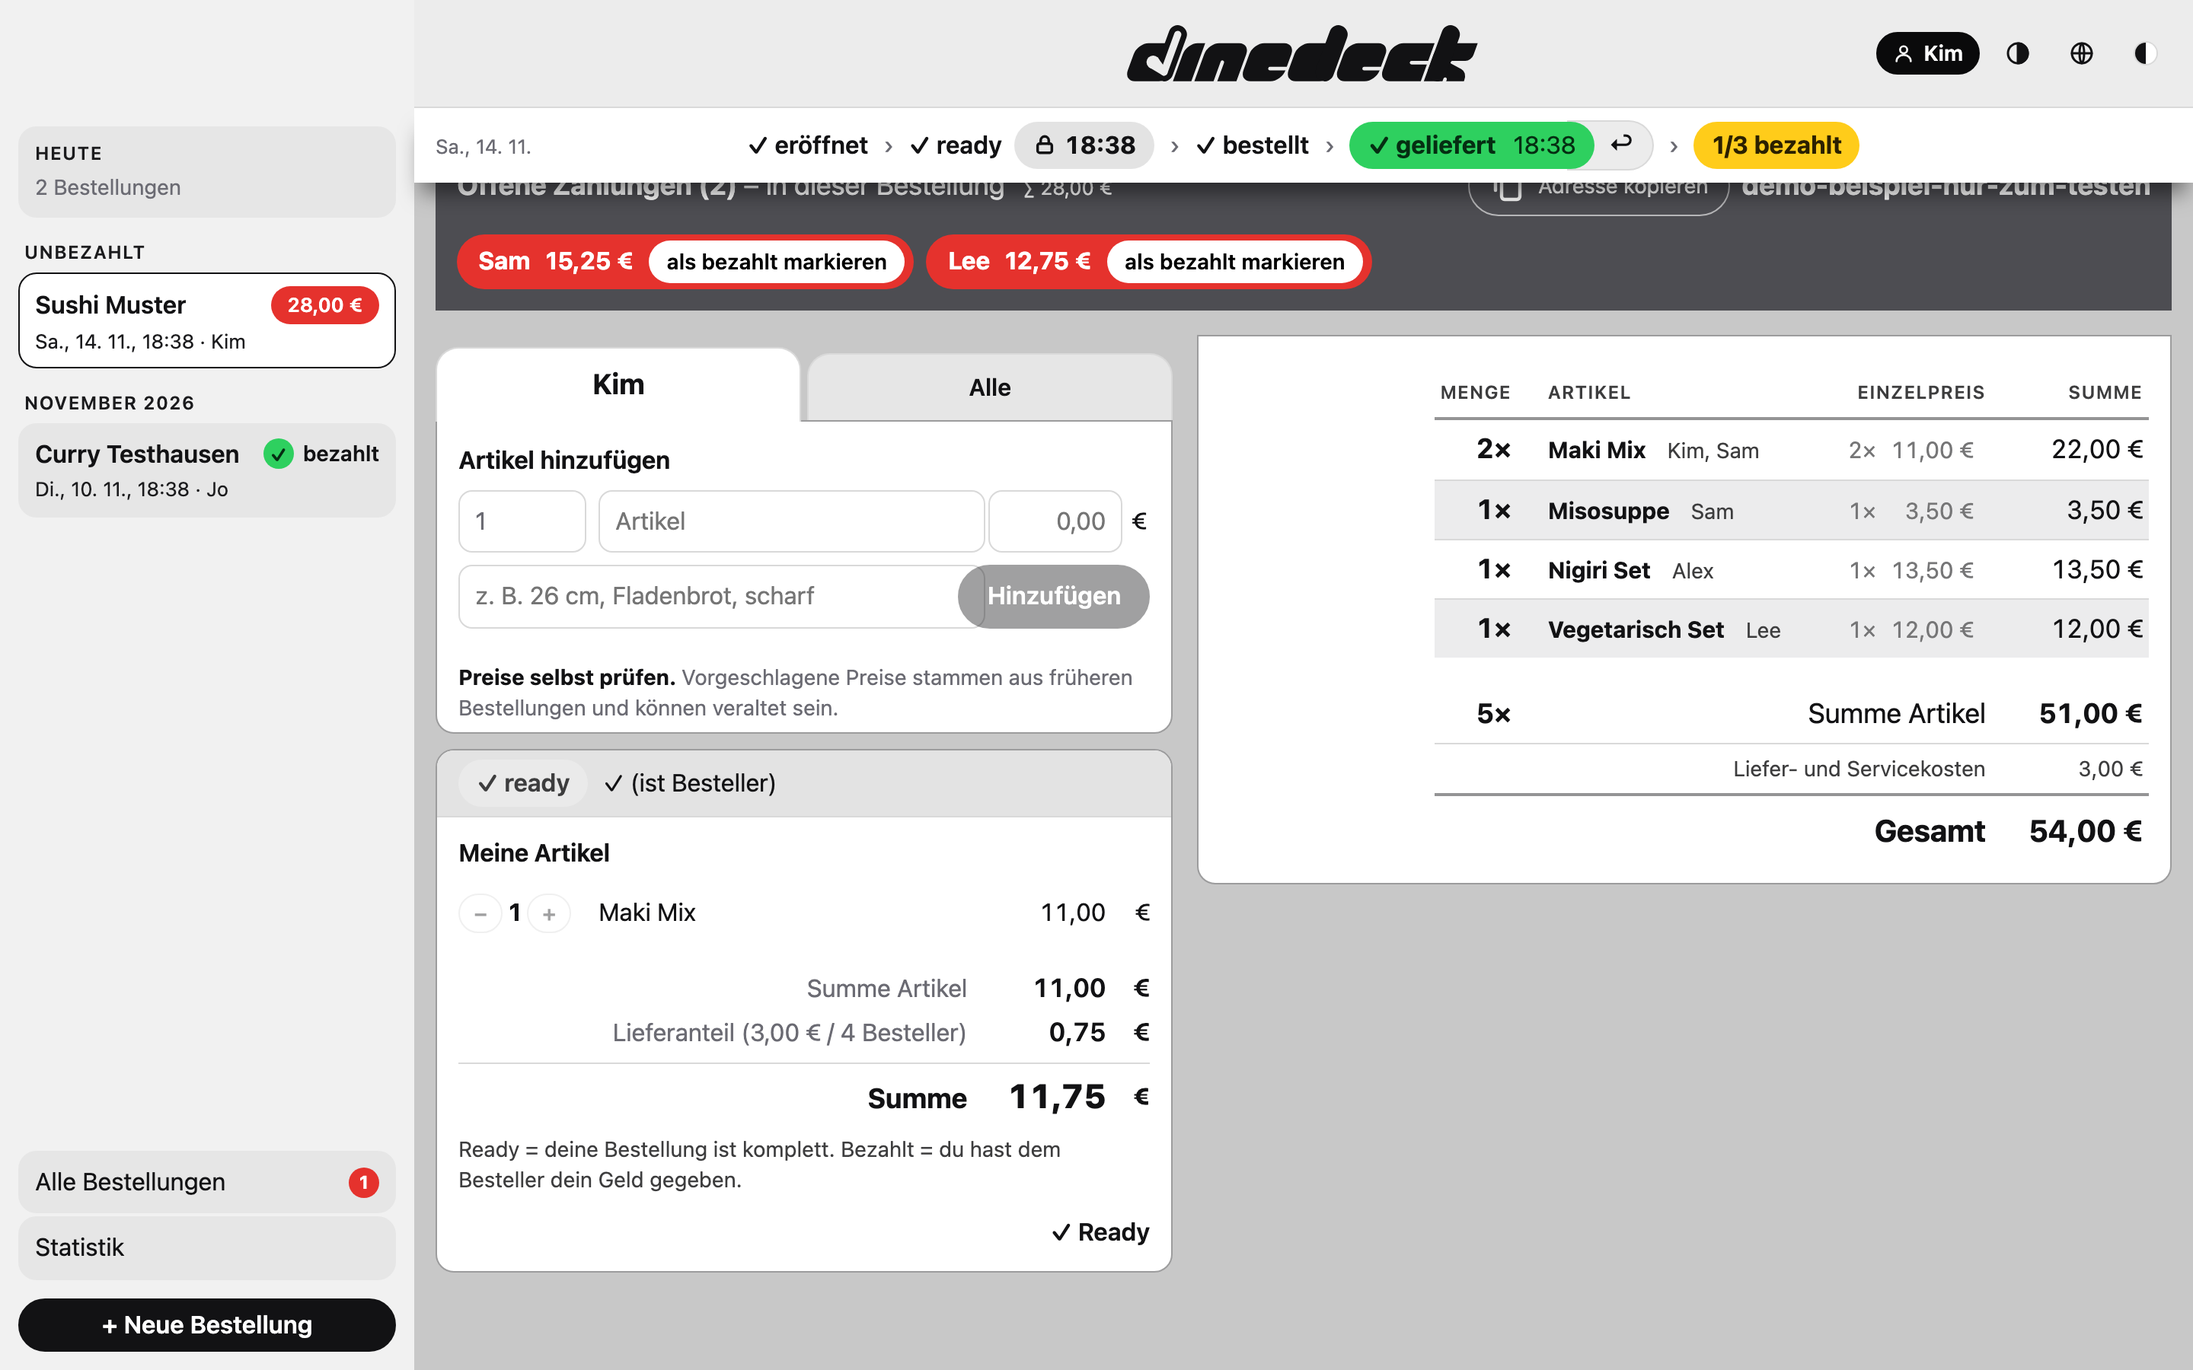
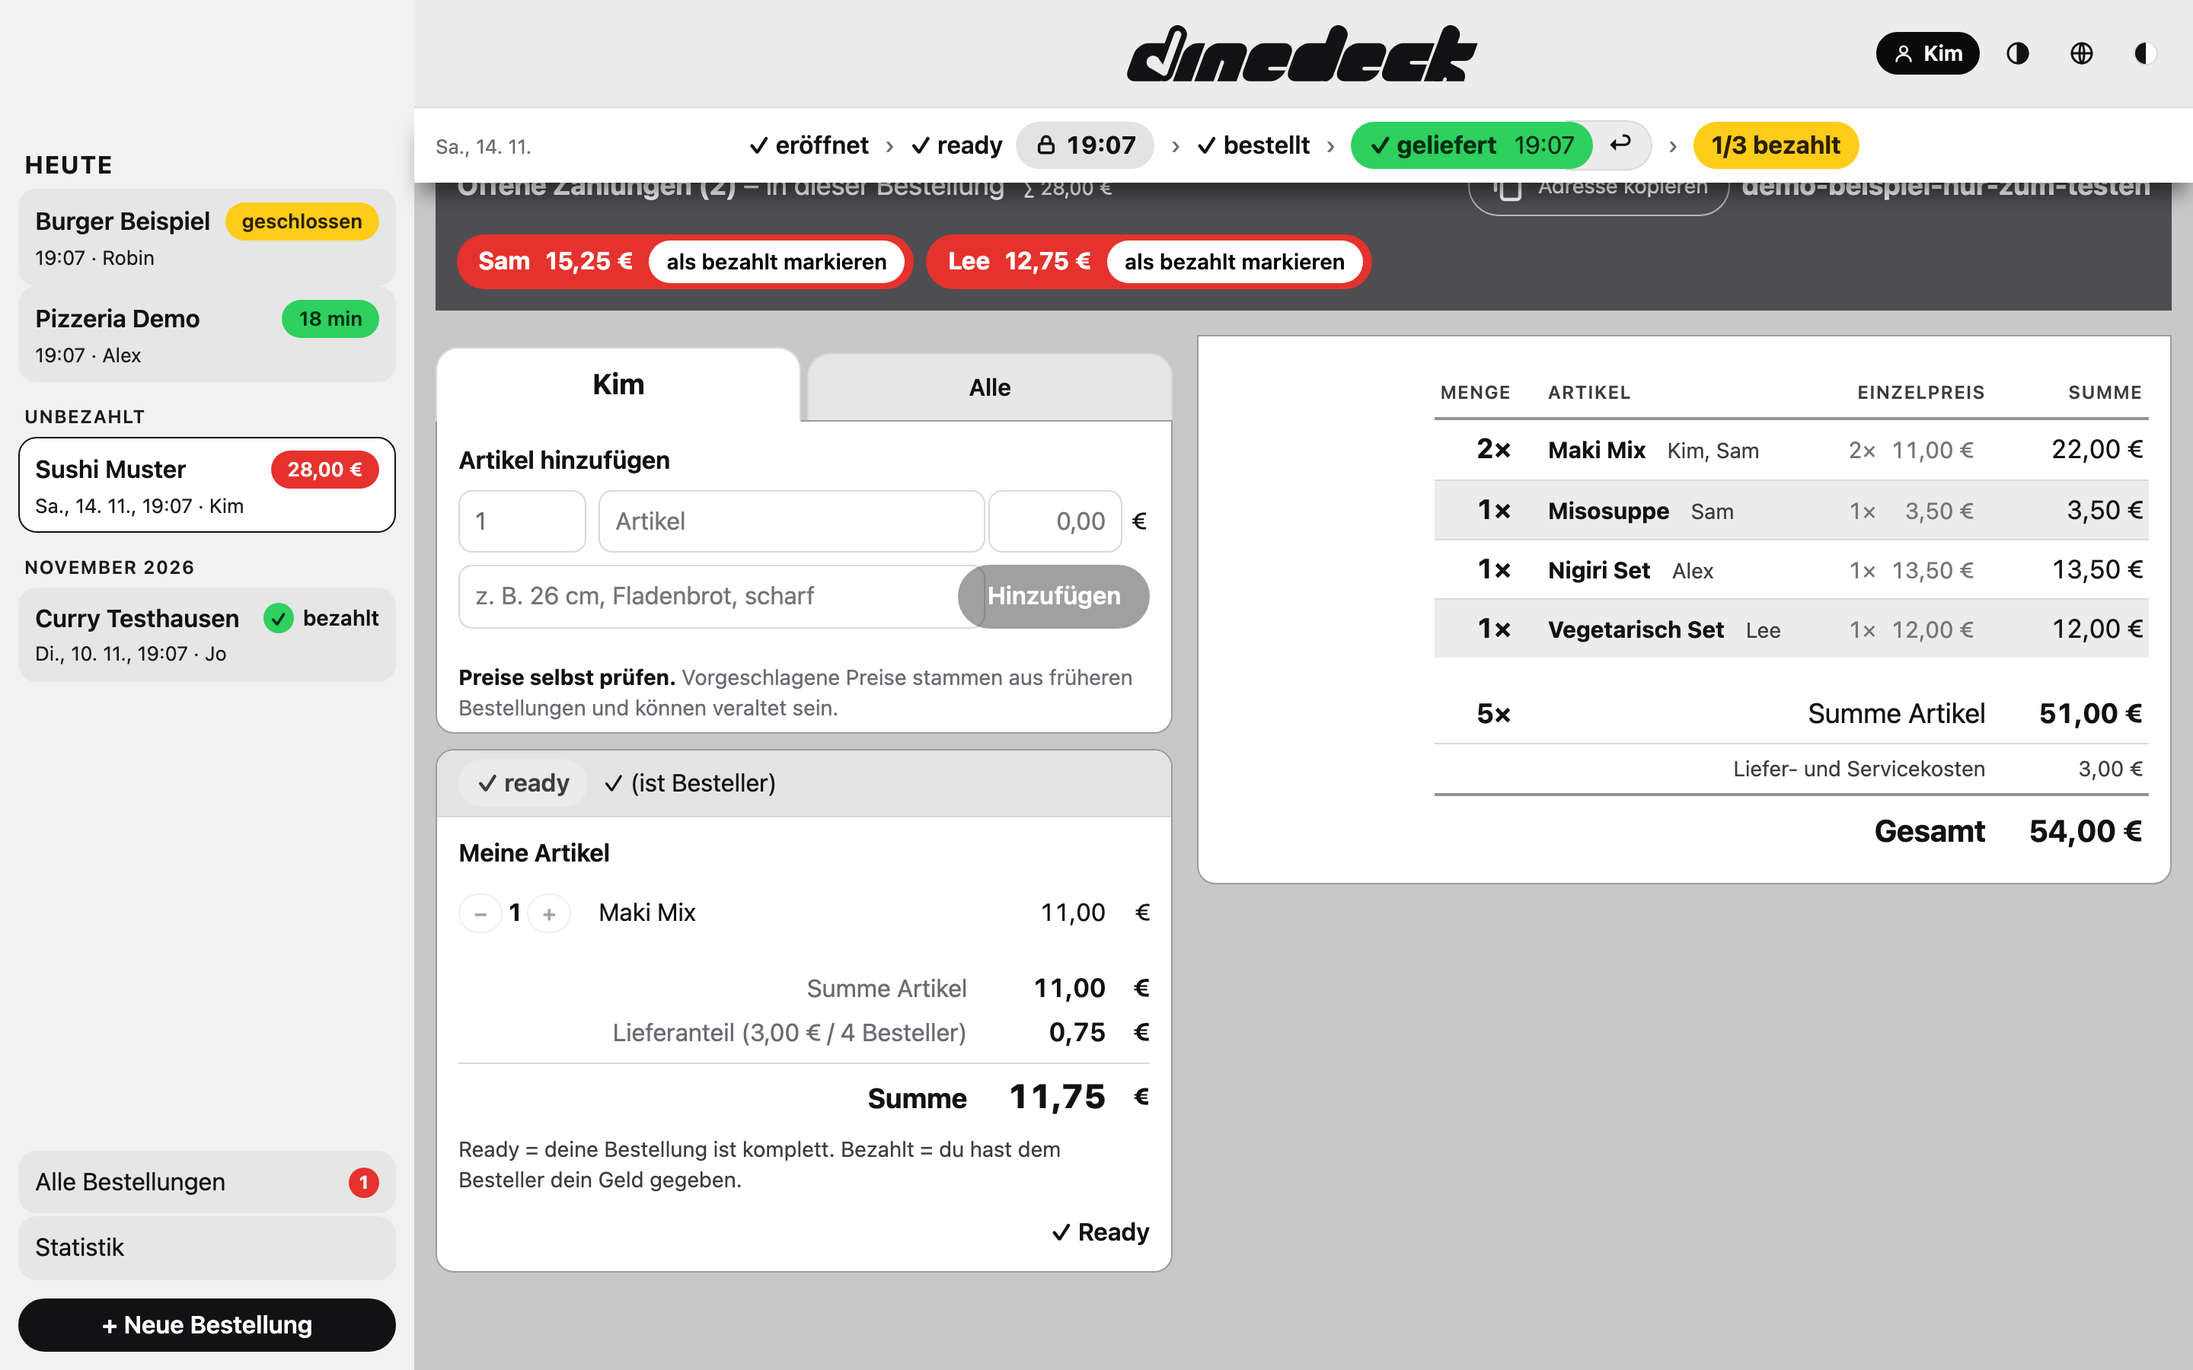
Jahr in der Statuszeile nur bei früheren Jahren, ältere Demo-Bestellung, heutige Bestellungen einzeln in der Seitenleiste statt Auswahl im Kopf, Bildschirmfotos neu

diff --git a/public/style.css b/public/style.css
@@ -331,16 +331,6 @@ button.btn.ready { margin-left: 0; padding: 0.6875rem 1.625rem; font-size: 1.062
 .side-today { margin: 0; padding: 0; border: 0; background: none; }
 #side .side-today h4 { font-size: var(--fs-base); font-weight: 700; color: var(--fg); }
 
-/* Wechsel zwischen aktuellen Bestellungen (nur bei mehreren) */
-.head-pick { display: flex; flex-wrap: wrap; gap: 0.375rem; align-content: start; }
-.head-pick:empty { display: none; }
-.pick-item { display: grid; gap: 0; padding: 0.375rem 0.75rem; border: 1px solid var(--line); border-radius: var(--radius); color: var(--fg); text-decoration: none; background: var(--bg); }
-.pick-item .muted { font-size: var(--fs-xs); }
-.pick-item.active { border-color: var(--accent); background: var(--wash); }
-@media (min-width: 68.75em) {
-  .round-head.has-pick { grid-template-columns: 11.875rem minmax(0, 1fr) minmax(17.5rem, 22.5rem); }
-  .head-pick { flex-direction: column; flex-wrap: nowrap; }
-}
 @media (max-width: 30em) { .tabs button { font-size: var(--fs-sm); padding: 0.5rem 0.125rem; } }
 
 /* Warnbalken: ungespeicherte Änderung im Bestellkopf läuft rückwärts ab */
@@ -389,7 +379,6 @@ button.btn.ready { margin-left: 0; padding: 0.6875rem 1.625rem; font-size: 1.062
 
 /* „Offene Beträge“ mit deutlichem Abstand (200 px inkl. Grid-Gap) zum Inhalt darüber, wie die nicht-ready Artikel */
 
-.side-today-link h4 { margin: 0 0 0.125rem !important; }
 
 /* Schmal (unter 80 em): Sidebar als Drawer mit Hamburger-Button */
 .menu-btn { display: none; position: absolute; left: 0.625rem; top: 0.625rem; width: 2.75rem; height: 2.75rem; align-items: center; justify-content: center; border: 0; border-radius: var(--radius-pill); background: transparent; color: var(--fg); cursor: pointer; }
@@ -703,10 +692,8 @@ a.debt-card:hover > .card-head { background: color-mix(in srgb, var(--fg) 10%, v
 .round-head.folded .head-band { border-radius: var(--head-radius); } /* zugeklappt: Halbkreis an den Enden, aufgeklappt dieselbe Rundung oben */
 .round-head.folded > :not(.head-band) { display: none; } /* zugeklappt: nur das Kopfband, alles darunter ist weg */
 .round-head.folded { grid-template-columns: minmax(0, 1fr); }
-.round-head.folded.has-pick { grid-template-columns: 11.875rem minmax(0, 1fr); }
 @media (min-width: 43.75em) { /* eingeklappt, breit: Lieferzeit/Knöpfe und Bezahlen in einer Zeile */
   .round-head.folded { grid-template-columns: minmax(0, 1fr) auto; }
-  .round-head.folded.has-pick { grid-template-columns: 11.875rem minmax(0, 1fr) auto; }
   .round-head.folded > .head-side { order: 2; align-self: center; }
   .round-head.folded .head-side:not(:has(> :not(.hidden):not(.fold-item))) { display: none; }
 }
@@ -728,7 +715,6 @@ button.btn.copy-btn:hover { background: var(--black); color: var(--white); borde
 /* Bezahlbereich: eigene Zeile über die volle Breite, unabhängig vom Zustand des Kopfs */
 @media (min-width: 68.75em) { /* breit, aufgeklappt: Bezahlen rutscht unter die Daten (links), rechts steht die Frist über zwei Zeilen */
   .round-head:not(.folded) > .head-side { grid-row: span 2; }
-  .round-head.has-pick:not(.folded) > .head-pick { grid-row: span 2; }
 }
 .head-band .head-contact { margin-left: auto; }
 .head-band .head-contact .row { justify-content: flex-end; }

diff --git a/public/views/round.js b/public/views/round.js
@@ -1,13 +1,12 @@
 // Bestellseite: Frist, Banner, Bezahlen, Tabs (Nach Usern / Meine / Bestellen), offene Beträge.
 import { t, lang } from '/i18n.js';
 import { LIMITS, DEFAULTS, LISTS, TIMING } from '/config.js';
-import { isCurrentRound } from '/group.js';
 import { orderContent, orderActions } from '/views/round/order.js';
 import { createStatus } from '/views/round/status.js';
 import { confirmDialog } from '/dialog.js';
 import { nbspUnits } from '/format.js';
 import { flagBadge as flagBadgeOf, renderUsers as renderUsersList } from '/views/round/users.js';
-import { app, eur, fmtWhen, fmtDate, fmtClock, lc, h, toast, api, act, me, contactLinks, fmtRemaining, fold, parseMoney, flashButton, money, nav } from '/util.js';
+import { app, eur, fmtDate, fmtClock, lc, h, toast, api, act, me, contactLinks, fmtRemaining, fold, parseMoney, flashButton, money, nav } from '/util.js';
 
 // Ausklapp-Chevron wie im Finder: dünner Winkel mit runden Enden, dreht sich beim Öffnen nach unten
 // Pfeil als Schriftzeichen: skaliert mit der Schrift des Namens
@@ -198,7 +197,6 @@ export function roundView(id) {
     tickEdit();
   }
   for (const i of editInputs) i.addEventListener('input', () => syncEdit(true));
-  const headPick = h('nav', { class: 'head-pick' });
   const addrEl = h('div', { class: 'muted fold-item' });
   const feeLabel = h('label', { class: 'fee-field fold-item' }, t('Lieferkosten (€)'), eFee);
   const headTop = h('div', { class: 'head-top' }, addrEl, feeLabel); // Adresse links, Lieferkosten rechts
@@ -246,20 +244,7 @@ export function roundView(id) {
     },
   }, t('Bestellung löschen'));
   const deleteRow = h('div', { class: 'row end fold-item' }, deleteBtn);
-  head.append(headBand, headPick, h('div', { class: 'head-main' }, headTop, headMeta, h('div', { class: 'head-formrow' }, headForm, deleteRow)), h('div', { class: 'head-side' }, timerCard, orderCard));
-
-  // Wechsel zwischen den heutigen/offenen Bestellungen (nur sichtbar, wenn es mehrere gibt)
-  function renderPick(list) {
-    const cur = (list ?? []).filter((x) => isCurrentRound(x, Date.now()));
-    // Stack nur bei mehreren Bestellungen heute (bei einer steht sie direkt in der Sidebar)
-    const show = cur.length > 1;
-    head.classList.toggle('has-pick', show);
-    headPick.replaceChildren(
-      ...(show
-        ? cur.map((x) => h('a', { class: 'pick-item' + (x.id === id ? ' active' : ''), href: `#/r/${x.id}` }, h('strong', null, x.restaurant), h('span', { class: 'muted' }, `${fmtWhen(x.created_at)} · ${x.creator}`)))
-        : [])
-    );
-  }
+  head.append(headBand, h('div', { class: 'head-main' }, headTop, headMeta, h('div', { class: 'head-formrow' }, headForm, deleteRow)), h('div', { class: 'head-side' }, timerCard, orderCard));
 
   // Klick auf die Bestellnummer: Link zu dieser Bestellung in die Zwischenablage
   async function copyOrderUrl(e) {
@@ -464,7 +449,6 @@ export function roundView(id) {
         catalogLoaded = true;
         loadCatalog();
       }
-      api('GET', '/rounds').then(renderPick).catch(() => {});
       renderHead();
       renderTimerControls();
       renderOrderStatus();

diff --git a/public/views/round/status.js b/public/views/round/status.js
@@ -1,7 +1,7 @@
 // Statusleiste oben: Ablaufzeile, Hinweise, offene Beträge
 import { t } from '/i18n.js';
 import { TIMING, DEFAULTS } from '/config.js';
-import { isToday } from '/format.js';
+import { isToday, beforeThisYear } from '/format.js';
 import { debtChipEl, debtsHead } from '/views/round/debt-row.js';
 import { payRows } from '/views/round/pay.js';
 import { fmtDay, fmtClock, fmtRemaining, lockIcon, undoIcon, h, lc, me } from '/util.js';
@@ -91,7 +91,7 @@ export function createStatus({ banners, debtsHost, toggle, decide, undo, advance
       const count = t('{paid}/{total} bezahlt', { paid: paidN, total: payers.length }); // immer x/y, auch bei einem
       flow.push(allPaid ? step('paid-done', payers.length ? `✓ ${count}` : `✓ ${t('bezahlt')}`) : counting ? step('now ready', count) : step('todo', payers.length && paidN > 0 ? count : t('bezahlt')));
     }
-    const where = h('span', { class: 'step-where' }, h('span', null, isToday(d.created_at, Date.now(), DEFAULTS.nightEndHour) ? fmtClock(d.created_at) : fmtDay(d.created_at, false))); // links: am selben Tag nur die Uhrzeit, sonst nur das Datum
+    const where = h('span', { class: 'step-where' }, h('span', null, isToday(d.created_at, Date.now(), DEFAULTS.nightEndHour) ? fmtClock(d.created_at) : fmtDay(d.created_at, beforeThisYear(d.created_at)))); // links: am selben Tag nur die Uhrzeit, sonst das Datum, aus einem früheren Jahr mit Jahr
     if (flow) b.push(h('div', { class: 'status-flow' }, where, h('div', { class: 'flow-steps' }, ...flow.flatMap((x, n) => {
       const chip = after.get(x);
       if (chip) chip.classList.add(x.classList.contains('now') ? 'tucked' : 'flush'); // hinter der Pille hervorkommend bzw. bündig am Text

diff --git a/public/side.js b/public/side.js
@@ -44,19 +44,10 @@ export function renderSide() {
   const today = sideRounds.filter((r) => isCurrentRound(r, now));
   const rest = sideRounds.filter((r) => !isCurrentRound(r, now));
   sideEl.replaceChildren(
-    // Mehrere Bestellungen heute: nur „Heute“ (die Auswahl steht im Hauptbereich); genau eine: diese direkt
-    ...(today.length > 1
-      ? [
-          h(
-            'a',
-            { class: 'side-item side-today-link' + (today.some((r) => hash === `#/r/${r.id}`) ? ' active' : ''), href: '#/' },
-            h('h4', null, t('Heute')),
-            h('span', { class: 'muted' }, t('{n} Bestellungen', { n: today.length }))
-          ),
-        ]
-      : today.length
-        ? [h('section', { class: 'side-today' }, h('h4', null, t('Heute')), ...today.map(item))]
-        : [h('section', { class: 'side-today' }, h('h4', null, t('Heute')), h('span', { class: 'soft-note' }, t('noch keine Bestellung')))]), // Bereich bleibt sichtbar
+    // Heute: jede Bestellung einzeln (eine Bestellung hat immer genau ein Restaurant)
+    ...(today.length
+      ? [h('section', { class: 'side-today' }, h('h4', null, t('Heute')), ...today.map(item))]
+      : [h('section', { class: 'side-today' }, h('h4', null, t('Heute')), h('span', { class: 'soft-note' }, t('noch keine Bestellung')))]), // Bereich bleibt sichtbar
     ...group(t('Unbezahlt'), rest.filter((r) => r.unpaid)),
     ...groupHistory(rest.filter((r) => r.locked && !r.unpaid && r.created_at >= since), now, LISTS.historyMonths).flatMap((g) => group(groupTitle(g), g.items)),
     h('div', { class: 'side-foot' }, link('#/all', allLabel), link('#/stats', t('Statistik')), h('a', { class: 'btn side-new', href: '#/new' }, t('+ Neue Bestellung')))

diff --git a/test/demo.test.js b/test/demo.test.js
@@ -2,23 +2,25 @@ import { test } from 'node:test';
 import assert from 'node:assert/strict';
 import { openDb, createLogic } from '../db.js';
 import { seedDemo, DEMO_NAMES } from '../demo.js';
+import { beforeThisYear } from '../public/format.js';
 
-test('seedDemo: vier erfundene Bestellungen in verschiedenen Zuständen, nur in leerer Datenbank', () => {
+test('seedDemo: fünf erfundene Bestellungen in verschiedenen Zuständen, nur in leerer Datenbank', () => {
   const db = openDb(':memory:');
   const logic = createLogic(db, { admins: [] });
   assert.equal(seedDemo(db, logic), true);
   const rounds = logic.listRounds('', 50);
-  assert.equal(rounds.length, 4);
+  assert.equal(rounds.length, 5);
   const by = (name) => rounds.find((r) => r.restaurant === name);
   assert.equal(by('Pizzeria Demo').locked, false, 'offen');
   assert.equal(by('Burger Beispiel').locked && !by('Burger Beispiel').ordered, true, 'geschlossen, nicht bestellt');
   assert.equal(by('Sushi Muster').unpaid, true, 'bestellt, Zahlungen offen');
   assert.equal(by('Curry Testhausen').all_paid, true, 'geliefert und bezahlt');
+  assert.equal(beforeThisYear(by('Pasta Probe').created_at), true, 'ältere Bestellung: aus dem Vorjahr (Datum mit Jahr)');
   // nur erfundene Namen
   const names = new Set();
   for (const r of rounds) for (const u of logic.roundDetail(r.id, '').users) names.add(u.user);
   for (const n of names) assert.ok(DEMO_NAMES.includes(n), `${n} ist kein Demo-Name`);
   // zweiter Aufruf ändert nichts
   assert.equal(seedDemo(db, logic), false);
-  assert.equal(logic.listRounds('', 50).length, 4);
+  assert.equal(logic.listRounds('', 50).length, 5);
 });

diff --git a/test/format.test.js b/test/format.test.js
@@ -1,6 +1,6 @@
 import { test } from 'node:test';
 import assert from 'node:assert/strict';
-import { fmtRemaining, genitive, payHref, joinList, isToday, centsToInput, roundStage, owedByMe, owedToMe, shortVariant, bellStep, nbspUnits } from '../public/format.js';
+import { fmtRemaining, genitive, payHref, joinList, isToday, centsToInput, roundStage, owedByMe, owedToMe, shortVariant, bellStep, nbspUnits, beforeThisYear } from '../public/format.js';
 import { isCurrentRound, startRound } from '../public/group.js';
 
 const MIN = 60000;
@@ -173,4 +173,12 @@ test('nbspUnits: Zahl und Einheit bleiben zusammen (geschütztes Leerzeichen)', 
   assert.equal(nbspUnits('26 cmx'), '26 cmx', 'nur ganze Einheiten');
   assert.equal(nbspUnits(''), '');
   assert.equal(nbspUnits(null), '');
+});
+
+test('beforeThisYear: Bestellungen aus früheren Kalenderjahren', () => {
+  const now = new Date(2026, 10, 15, 12).getTime(); // 15. 11. 2026
+  assert.equal(beforeThisYear(new Date(2026, 0, 1, 0, 5).getTime(), now), false, 'Jahresanfang gehört noch dazu');
+  assert.equal(beforeThisYear(new Date(2026, 9, 6).getTime(), now), false, 'Vormonat im selben Jahr: kein Jahr');
+  assert.equal(beforeThisYear(new Date(2025, 11, 31, 23, 59).getTime(), now), true, 'Silvester des Vorjahrs');
+  assert.equal(beforeThisYear(new Date(2024, 4, 1).getTime(), now), true, 'zwei Jahre zurück');
 });

diff --git a/demo.js b/demo.js
@@ -16,6 +16,7 @@ const ROUNDS = [
   { restaurant: 'Burger Beispiel', buyer: 'Robin', fee: '', ago: 0, stage: 'closed', ready: ['Robin', 'Lee', 'Jo'], items: { Robin: [['Cheeseburger', 7.9, 1]], Lee: [['Veggie Burger', 8.4, 1], ['Pommes', 3.2, 1]], Jo: [['Cheeseburger', 7.9, 2]] } },
   { restaurant: 'Sushi Muster', buyer: 'Kim', fee: '3,00', ago: 1, stage: 'delivered', ready: ['Kim', 'Alex', 'Sam', 'Lee'], paid: ['Alex'], items: { Kim: [['Maki Mix', 11, 1]], Alex: [['Nigiri Set', 13.5, 1]], Sam: [['Maki Mix', 11, 1], ['Misosuppe', 3.5, 1]], Lee: [['Vegetarisch Set', 12, 1]] } },
   { restaurant: 'Curry Testhausen', buyer: 'Jo', fee: '2,50', ago: 5, stage: 'delivered', ready: ['Jo', 'Robin', 'Sam'], paid: ['Robin', 'Sam'], items: { Jo: [['Linsen-Curry', 9.8, 1]], Robin: [['Hähnchen-Curry', 11.2, 1], ['Reis extra', 2, 1]], Sam: [['Linsen-Curry', 9.8, 1]] } },
+  { restaurant: 'Pasta Probe', buyer: 'Lee', fee: '', ago: 400, stage: 'delivered', ready: ['Lee', 'Kim'], paid: ['Kim'], items: { Lee: [['Spaghetti Pomodoro', 9, 1]], Kim: [['Penne Arrabbiata', 8.5, 1]] } }, // aus dem Vorjahr: Datum mit Jahr
 ];
 
 /** Legt die Demo-Bestellungen an, wenn die Datenbank noch leer ist; true = angelegt. */

diff --git a/public/format.js b/public/format.js
@@ -101,3 +101,8 @@ const unitRe = () => new RegExp(`(\\d) (${VARIANT_SHORT.units.map((u) => u.repla
 export function nbspUnits(text) {
   return String(text ?? '').replace(unitRe(), '$1\u00a0$2');
 }
+
+/** true, wenn `ms` in einem früheren Kalenderjahr als `now` liegt (dann gehört das Jahr zum Datum). */
+export function beforeThisYear(ms, now = Date.now()) {
+  return ms < new Date(new Date(now).getFullYear(), 0, 1).getTime();
+}

diff --git a/public/i18n.js b/public/i18n.js
@@ -37,7 +37,6 @@ const EN = {
   'Artikel ändern': 'Edit items',
   'Erst „Bestellt“ zurücknehmen': 'Undo “ordered” first',
   'Menü': 'Menu',
-  '{n} Bestellungen': '{n} orders',
   'Export (JSON)': 'Export (JSON)',
   'Nur für Admins': 'Admins only',
   'Bestellung geschlossen, aber noch nicht als bestellt gemeldet:': 'Order closed but not yet marked as ordered:',

diff --git a/README.md b/README.md
@@ -50,7 +50,7 @@ Backup while running: `sqlite3 data/dinedeck.db ".backup backup.db"`.
 
 ## Demo
 
-`npm run demo` fills an empty database (`./data/demo.db` or `DB_FILE`) with four invented orders and names (Alex, Sam, Jo, Kim, Robin, Lee); a database with orders is never touched. Try: `DB_FILE=data/demo.db npm start`. With Docker: `DEMO=1 docker compose up -d --build`.
+`npm run demo` fills an empty database (`./data/demo.db` or `DB_FILE`) with five invented orders and names (Alex, Sam, Jo, Kim, Robin, Lee); a database with orders is never touched. Try: `DB_FILE=data/demo.db npm start`. With Docker: `DEMO=1 docker compose up -d --build`.
 
 | Delivered, partly paid | Order list |
 |---|---|
